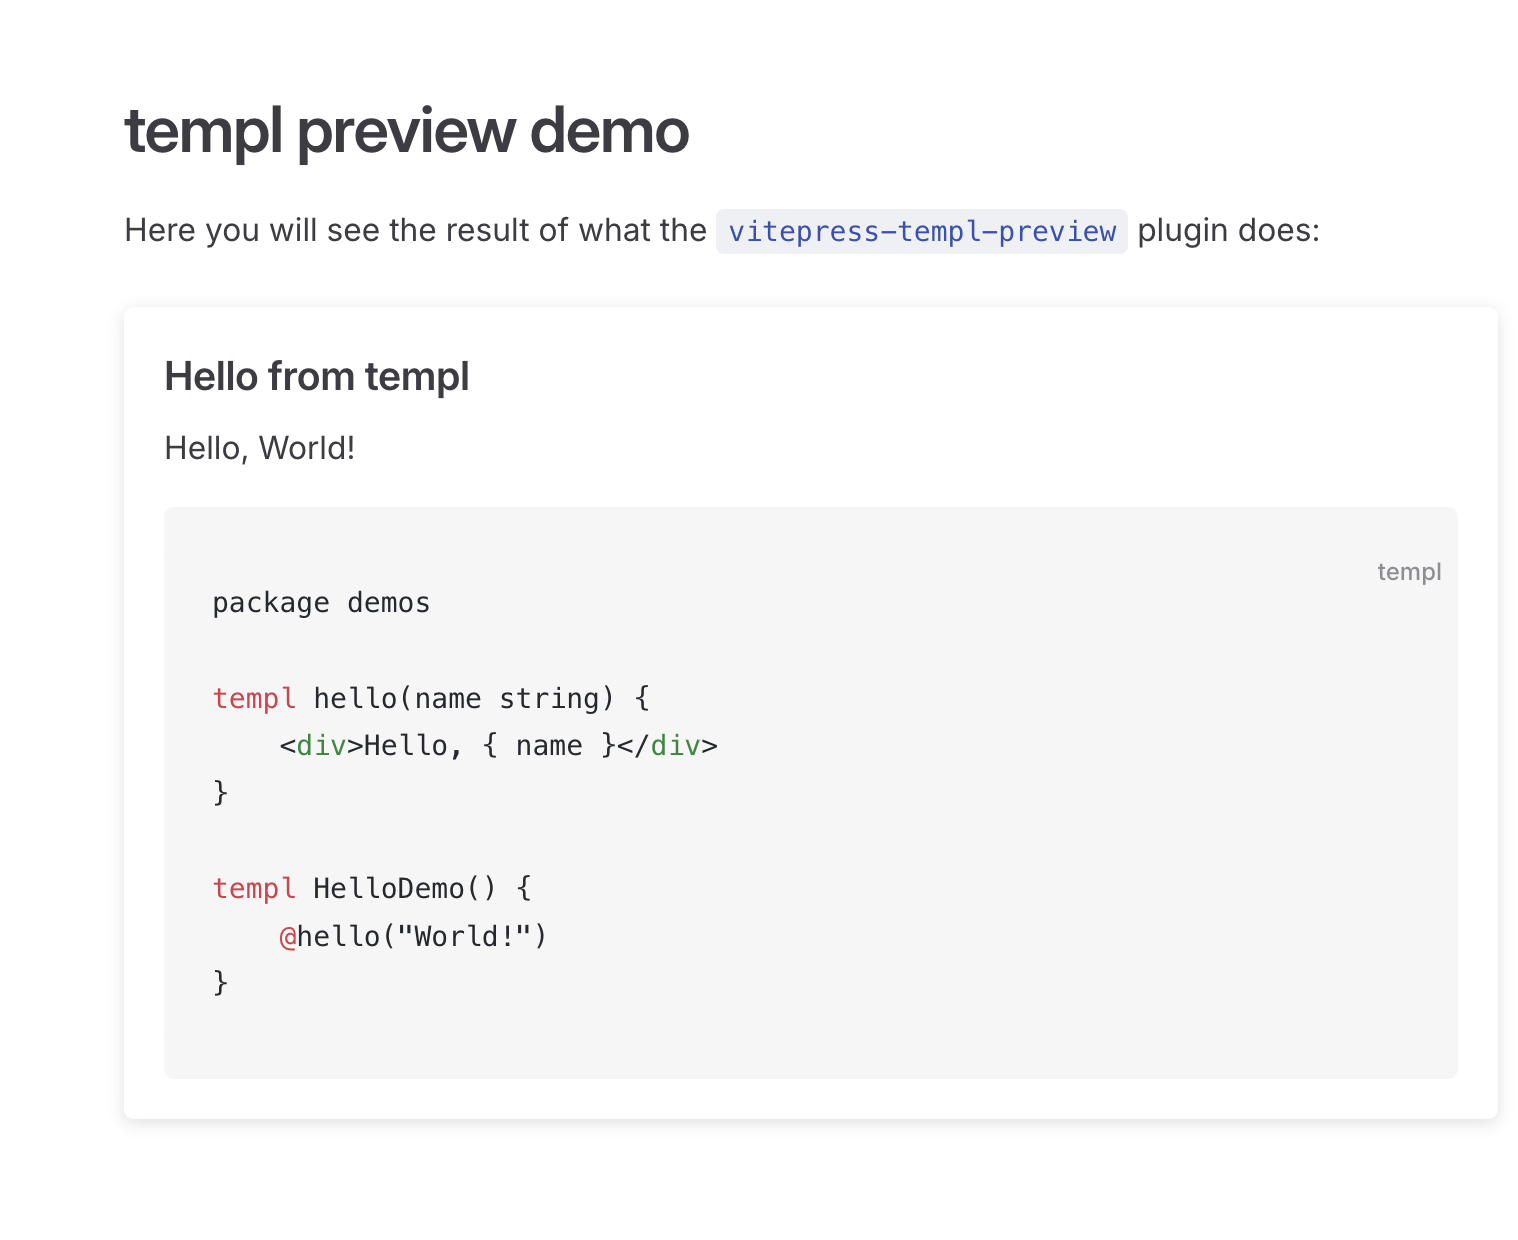
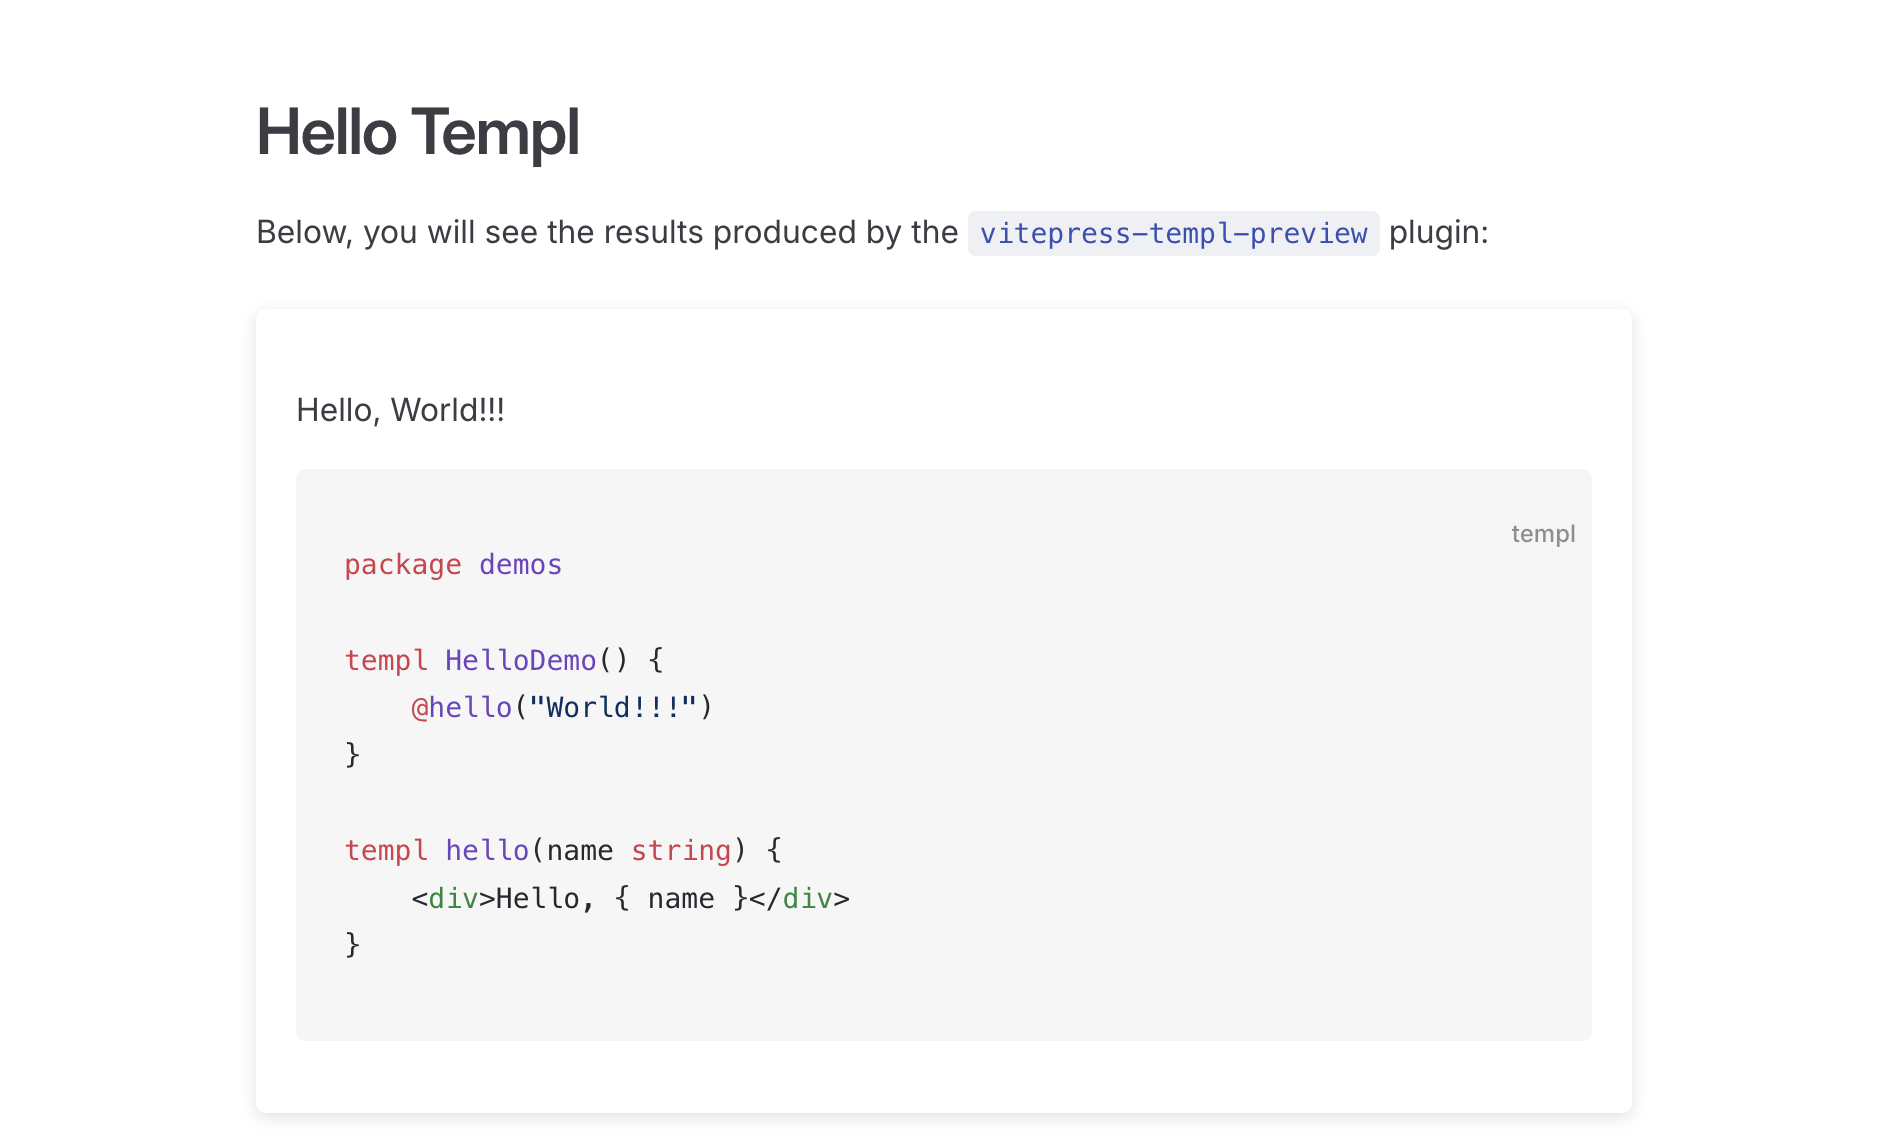
docs: update vue-components.md, examples pages and screenshots

diff --git a/website/docs/customization/vue-components.md b/website/docs/customization/vue-components.md
@@ -3,8 +3,9 @@
 The `vitepress-templ-preview` plugin comes with some predefined components you can select for preview rendering:
 
 - _VTPCard_
-- _VTPCollapsible_
+- _VTPCodeToggle_
 - _VTPTabs_
+- _VTPIconTabs_
 
 Choose one and [register](/guide/usage.html#vitepress) it.
 
@@ -32,15 +33,15 @@ All these components expose certain properties to allow configuration:
 
 :::
 
-### VTPCollapsible
+### VTPCodeToggle
 
-| Prop          | Type            | Default | Description                                      |
-| :------------ | :-------------- | ------- | ------------------------------------------------ |
-| `buttonStyle` | _"alt"/"brand"_ | `alt`   | Show/hide code button style in `VTPCollpasible`. |
+| Prop          | Type            | Default | Description                  |
+| :------------ | :-------------- | ------- | ---------------------------- |
+| `buttonStyle` | _"alt"/"brand"_ | `alt`   | Show/hide code button style. |
 
 ::: details Screenshot
 
-![VTPCollapsible](/images/collapsible.png)
+![VTPCodeToggle](/images/code-toggle.gif)
 
 :::
 
@@ -48,7 +49,15 @@ All these components expose certain properties to allow configuration:
 
 ::: details Screenshot
 
-![VTPTabs](/images/tabs.png)
+![VTPTabs](/images/tabs.gif)
+
+:::
+
+### VTPIconTabs
+
+::: details Screenshot
+
+![VTPTabs](/images/icons-tab.gif)
 
 :::
 

diff --git a/website/docs/examples/button-preview.md b/website/docs/examples/button-preview.md
@@ -1,5 +1,5 @@
-# button component preview
+# Button component
 
-Here you will see the result of what the `vitepress-templ-preview` plugin does:
+Below, you will see the results produced by the `vitepress-templ-preview` plugin:
 
 <templ-demo src="button/button-primary" />

diff --git a/website/docs/examples/alert-preview.md b/website/docs/examples/alert-preview.md
@@ -1,5 +1,5 @@
-# alert component preview
+# Alert component
 
-Here you will see the result of what the `vitepress-templ-preview` plugin does:
+Below, you will see the results produced by the `vitepress-templ-preview` plugin:
 
 <templ-demo src="alert-demo" />

diff --git a/website/docs/examples/hello-preview.md b/website/docs/examples/hello-preview.md
@@ -1,5 +1,5 @@
-# templ preview demo
+# Hello Templ
 
-Here you will see the result of what the `vitepress-templ-preview` plugin does:
+Below, you will see the results produced by the `vitepress-templ-preview` plugin:
 
 <templ-demo src="hello-demo" />
